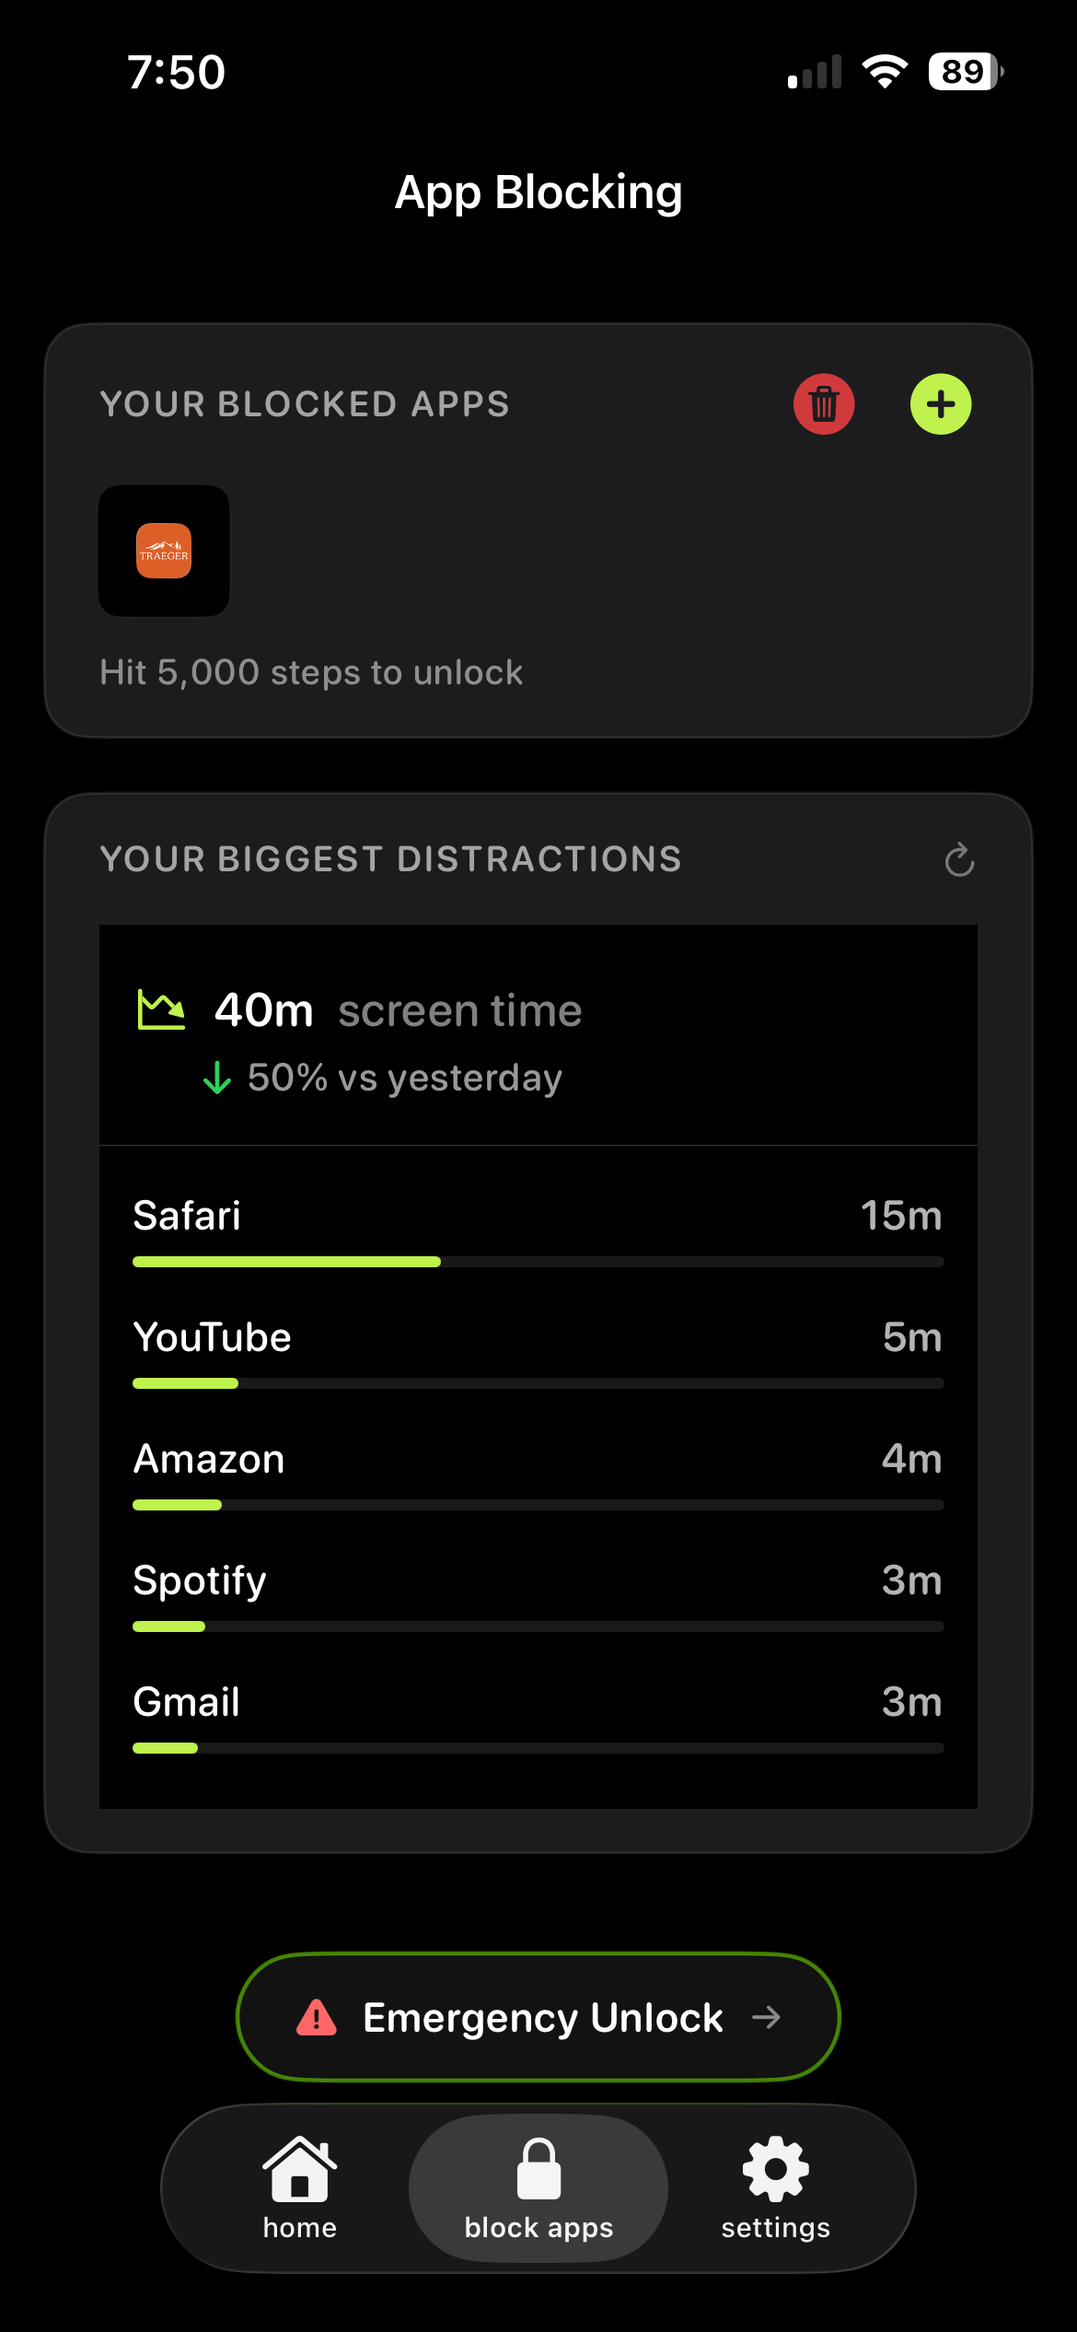
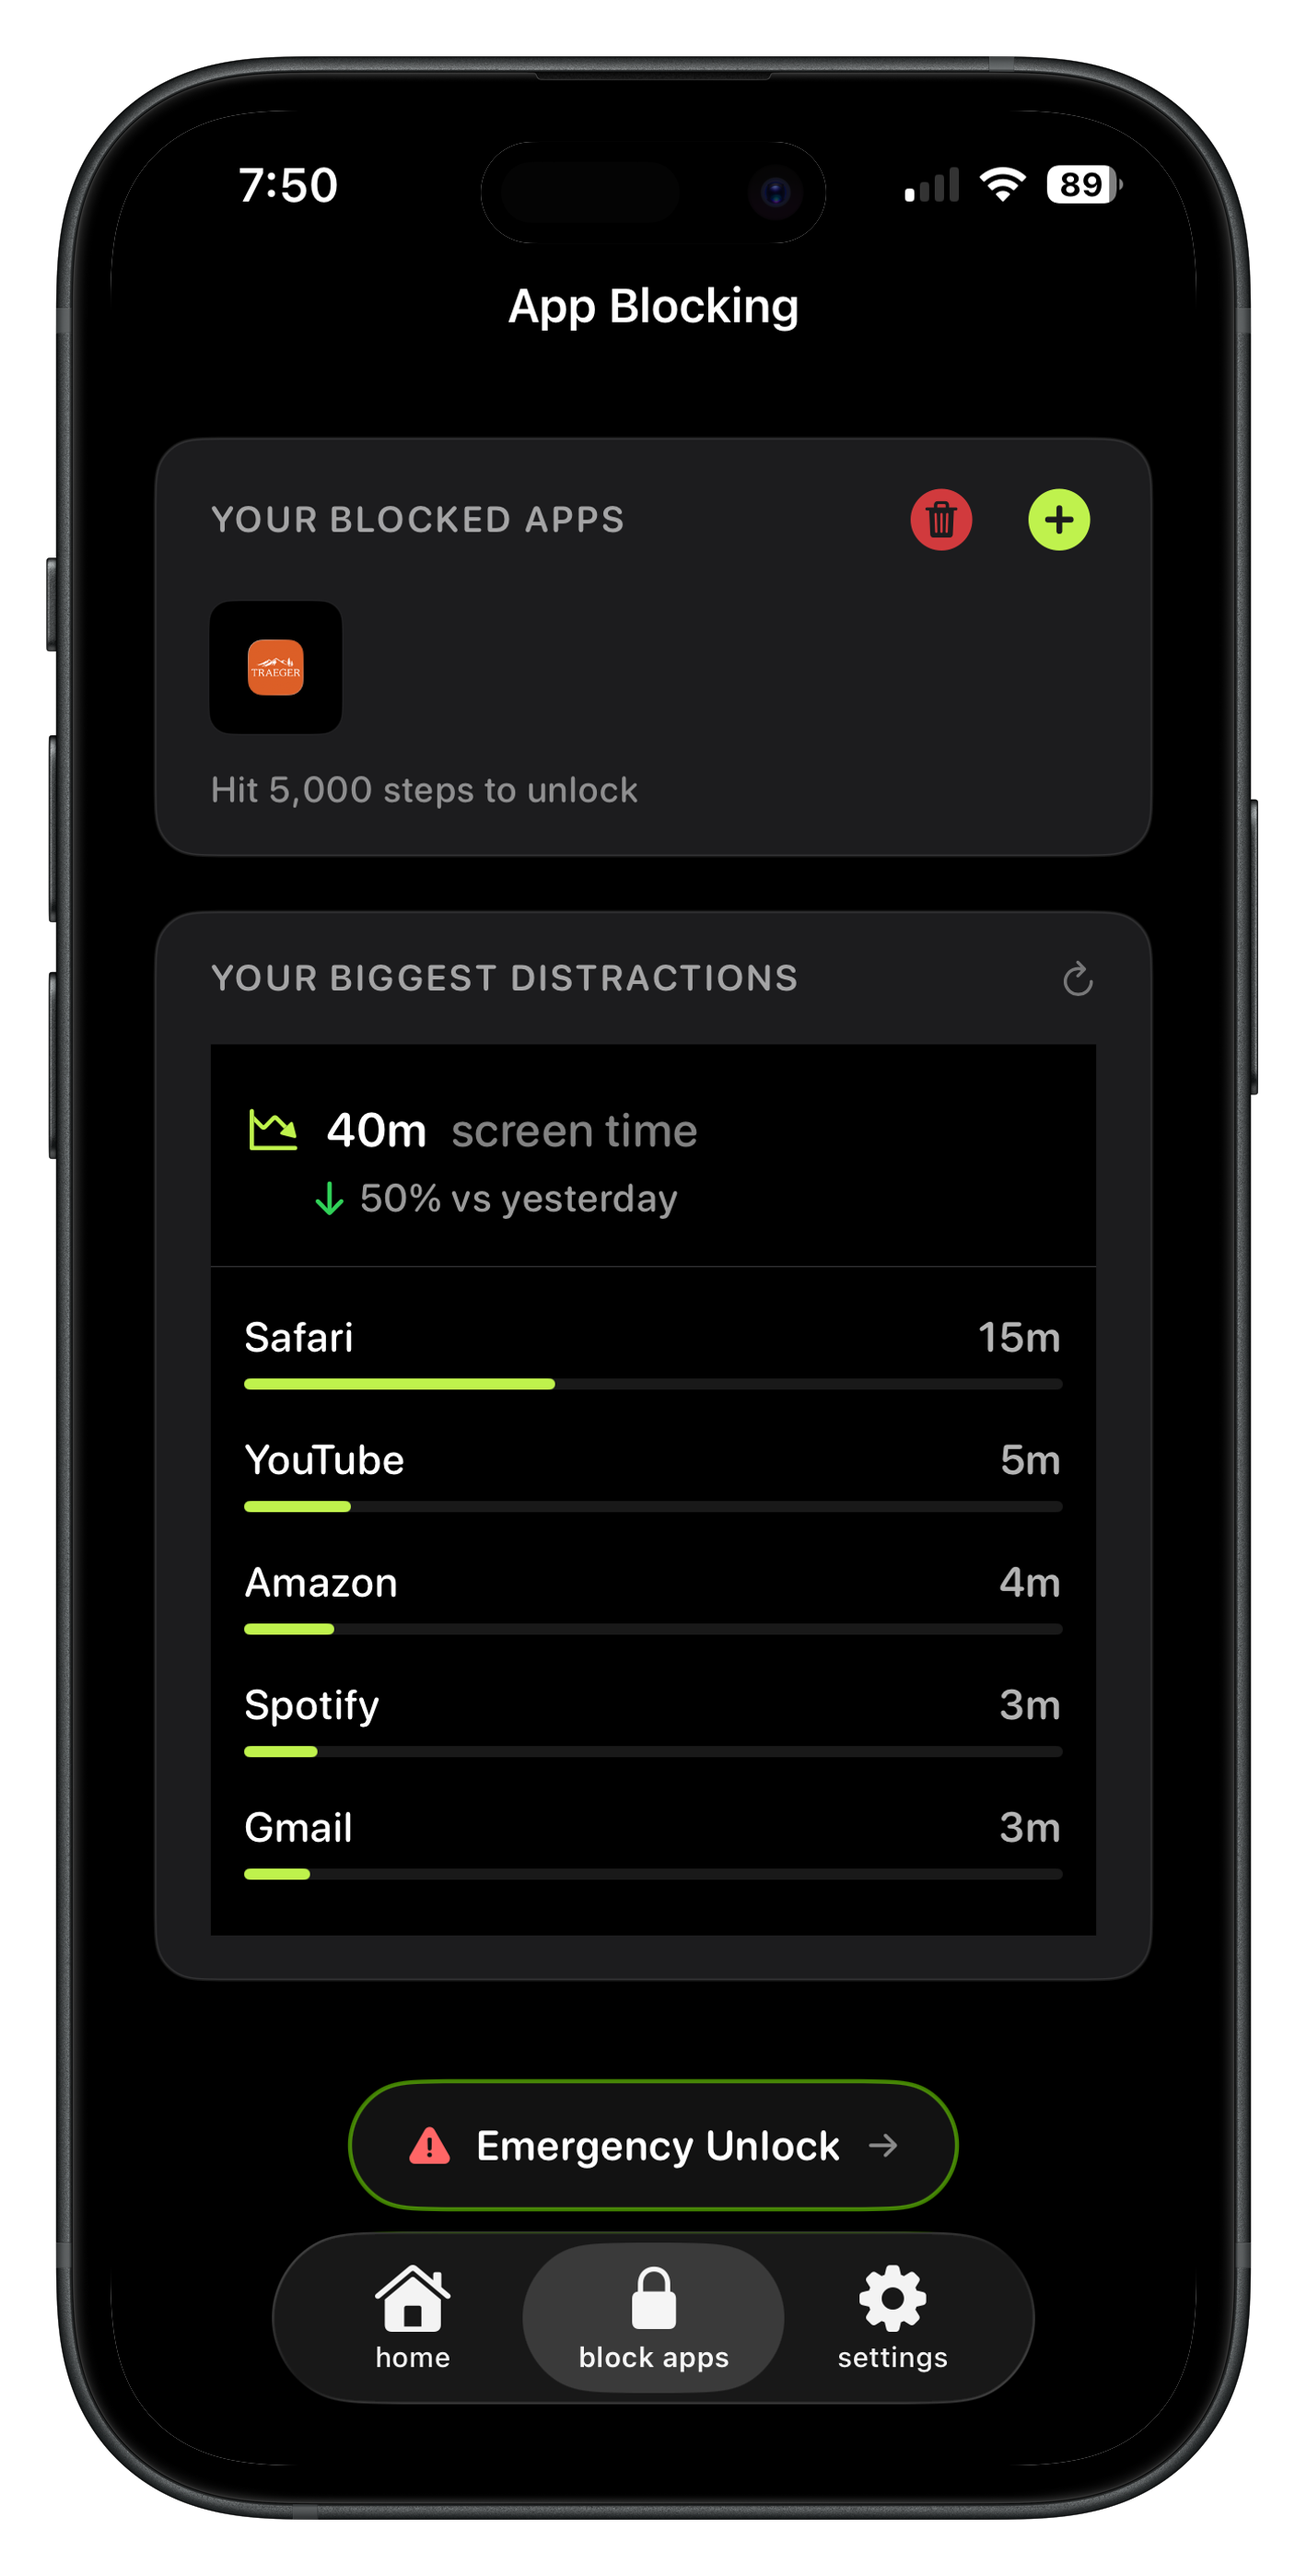
Refine copy, remove clutter, update screenshots, restore card styling
Copy refinements:
- Step 2: Removed specific numbers, shortened to 3 punchy sentences
  "Set your daily step goal. Your apps lock until you hit it. Want to scroll? Start walking."
- Step 3: Tightened copy, removed "deeply satisfying", more direct
  "Watch that circle fill with every step. Hit 100%? Apps unlock. Miss it? They stay locked."

Visual improvements:
- KeyFeatures: Removed headline entirely (features speak for themselves)
- FinalCTA: Removed trust badges (were inaccurate/redundant)
- BuiltForPeopleWho: Restored card styling with solid bg-dark-secondary backgrounds

Updated assets:
- Replaced block-apps.png with new screenshot
- Replaced goal-setting.png with new screenshot

Result: Cleaner, more honest, more minimal, stronger brb voice throughout.

diff --git a/app/components/FinalCTA.tsx b/app/components/FinalCTA.tsx
@@ -35,7 +35,7 @@ export default function FinalCTA() {
           whileInView={{ opacity: 1, y: 0 }}
           viewport={{ once: true }}
           transition={{ duration: 0.6, delay: 0.4 }}
-          className="flex justify-center mb-8"
+          className="flex justify-center"
         >
           <a href="#" className="inline-block">
             <Image
@@ -46,34 +46,6 @@ export default function FinalCTA() {
               className="hover:opacity-80 transition-opacity"
             />
           </a>
-        </motion.div>
-
-        {/* Trust Badges */}
-        <motion.div
-          initial={{ opacity: 0, y: 20 }}
-          whileInView={{ opacity: 1, y: 0 }}
-          viewport={{ once: true }}
-          transition={{ duration: 0.6, delay: 0.6 }}
-          className="flex flex-wrap justify-center gap-4 md:gap-6 text-sm md:text-base text-text-muted"
-        >
-          <div className="flex items-center gap-2">
-            <svg className="w-5 h-5 text-primary-green" fill="currentColor" viewBox="0 0 20 20">
-              <path fillRule="evenodd" d="M16.707 5.293a1 1 0 010 1.414l-8 8a1 1 0 01-1.414 0l-4-4a1 1 0 011.414-1.414L8 12.586l7.293-7.293a1 1 0 011.414 0z" clipRule="evenodd" />
-            </svg>
-            <span>Free to download</span>
-          </div>
-          <div className="flex items-center gap-2">
-            <svg className="w-5 h-5 text-primary-green" fill="currentColor" viewBox="0 0 20 20">
-              <path fillRule="evenodd" d="M16.707 5.293a1 1 0 010 1.414l-8 8a1 1 0 01-1.414 0l-4-4a1 1 0 011.414-1.414L8 12.586l7.293-7.293a1 1 0 011.414 0z" clipRule="evenodd" />
-            </svg>
-            <span>Works with Apple Health</span>
-          </div>
-          <div className="flex items-center gap-2">
-            <svg className="w-5 h-5 text-primary-green" fill="currentColor" viewBox="0 0 20 20">
-              <path fillRule="evenodd" d="M16.707 5.293a1 1 0 010 1.414l-8 8a1 1 0 01-1.414 0l-4-4a1 1 0 011.414-1.414L8 12.586l7.293-7.293a1 1 0 011.414 0z" clipRule="evenodd" />
-            </svg>
-            <span>No credit card required</span>
-          </div>
         </motion.div>
       </div>
     </section>

diff --git a/app/components/HowItWorks.tsx b/app/components/HowItWorks.tsx
@@ -14,13 +14,13 @@ const steps = [
   {
     number: "02",
     title: "SET YOUR GOAL",
-    copy: "Pick your daily steps: 2,000 (starter), 5,000 (solid), 10,000+ (beast mode). The moment you save, your apps lock and stay locked until you hit your goal. Want to check Instagram? Go for a walk. Choose Strict Mode for zero compromises, or keep the 5-minute emergency unlock if needed.",
+    copy: "Set your daily step goal. Your apps lock until you hit it. Want to scroll? Start walking.",
     image: "/goal-setting.png",
   },
   {
     number: "03",
     title: "WALK TO UNLOCK",
-    copy: "Every step fills that circle. Track your progress in real-time all day. Hit 100%? Everything unlocks instantly and that green glow is deeply satisfying. Miss your goal? Apps stay locked until tomorrow. Build streaks that actually stick.",
+    copy: "Watch that circle fill with every step. Hit 100%? Apps unlock. Miss it? They stay locked. Track your streaks, compete with yourself, actually build habits that last.",
     image: "/unlock.png",
   },
 ];

diff --git a/app/components/KeyFeatures.tsx b/app/components/KeyFeatures.tsx
@@ -64,17 +64,6 @@ export default function KeyFeatures() {
   return (
     <section className="py-32 px-6 bg-[#0D0D0D]">
       <div className="max-w-6xl mx-auto">
-        {/* Section Title */}
-        <motion.h2
-          initial={{ opacity: 0, y: 20 }}
-          whileInView={{ opacity: 1, y: 0 }}
-          viewport={{ once: true }}
-          transition={{ duration: 0.6 }}
-          className="text-3xl md:text-4xl lg:text-5xl font-bold text-center mb-16"
-        >
-          Built to Actually Work
-        </motion.h2>
-
         {/* Features Grid */}
         <div className="grid md:grid-cols-2 lg:grid-cols-3 gap-8">
           {features.map((feature, index) => (

diff --git a/app/components/BuiltForPeopleWho.tsx b/app/components/BuiltForPeopleWho.tsx
@@ -33,7 +33,7 @@ export default function BuiltForPeopleWho() {
               whileInView={{ opacity: 1, x: 0 }}
               viewport={{ once: true }}
               transition={{ duration: 0.6, delay: index * 0.1 }}
-              className="flex items-start gap-4 py-4 px-6 rounded-lg hover:bg-dark-secondary/40 transition-all duration-300"
+              className="flex items-start gap-4 bg-dark-secondary rounded-xl p-6 hover:bg-dark-secondary/80 transition-all duration-300"
             >
               {/* Checkmark */}
               <svg 
